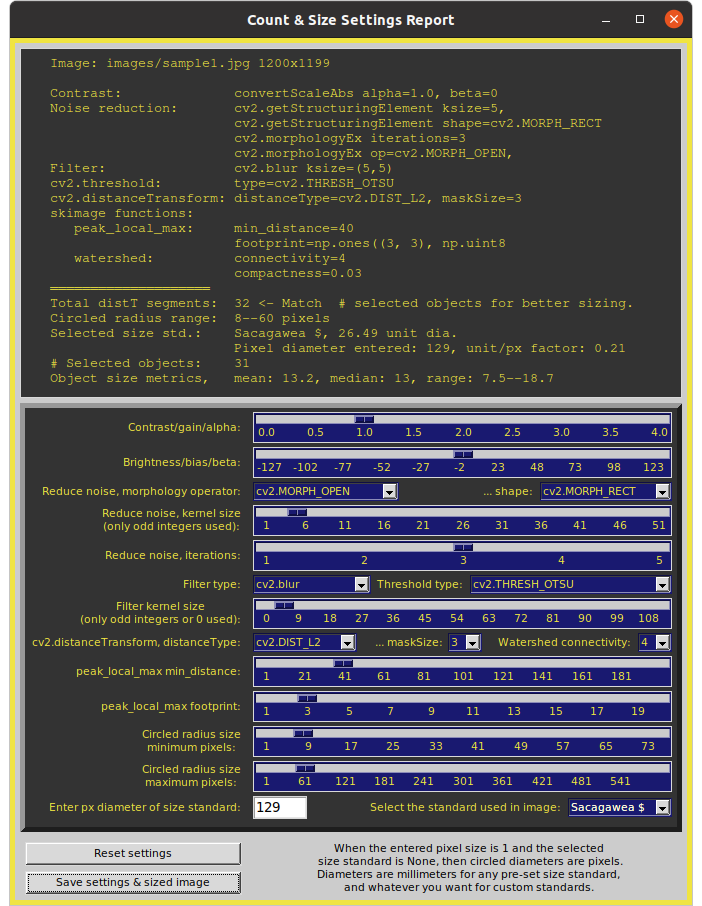
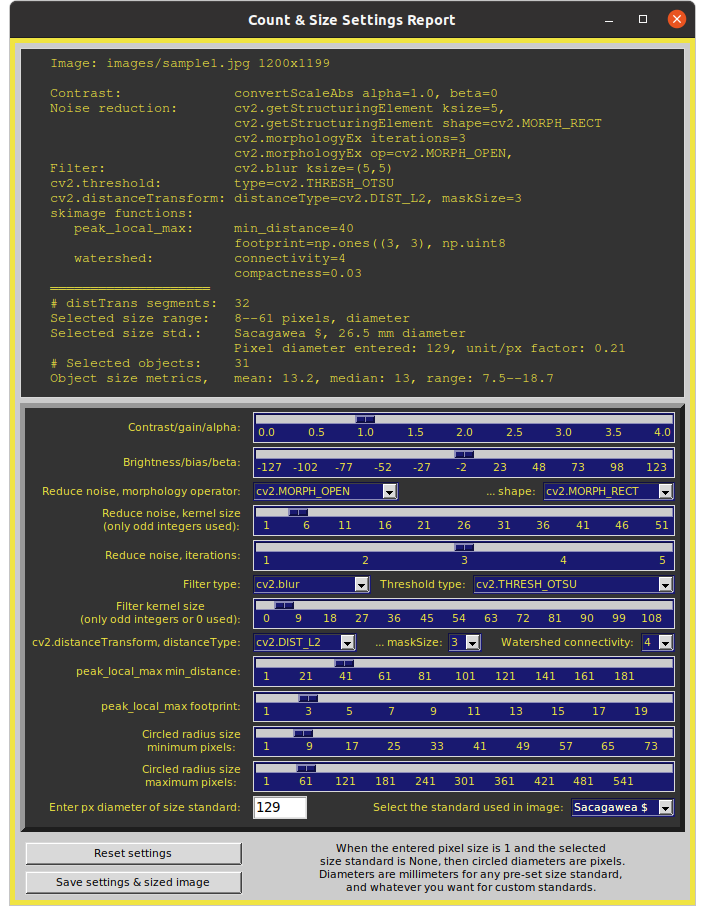
v 0.0.8: clarify report text

diff --git a/size_it.py b/size_it.py
@@ -307,7 +307,7 @@ class ProcessImage(tk.Tk):
             filtered_img = cv2.blur(src=self.reduced_noise_img,
                                     ksize=(filter_k, filter_k),
                                     borderType=border_type)
-        else:
+        else:  # there are no other choices, but include for future.
             filtered_img = cv2.blur(src=self.reduced_noise_img,
                                     ksize=(filter_k, filter_k),
                                     borderType=border_type)
@@ -1014,8 +1014,8 @@ class ImageViewer(ProcessImage):
         #  click and release movement, bind sliders to call the main
         #  processing and reporting function only on left button release.
         # Most are bound to process_all(), but to speed program
-        # responsiveness when changing the size range, just the sizing
-        # method is called.
+        # responsiveness when changing the size range, only call the
+        # sizing method to avoid image processing overhead.
         # Note that the <if '_lbl'> condition doesn't seem to be needed to
         #   improve performance, but is there for clarity's sake.
         for name, widget in self.slider.items():
@@ -1446,8 +1446,13 @@ class ImageViewer(ProcessImage):
 
         if _fk != 0:
             filter_k = _fk + 1 if _fk % 2 == 0 else _fk
-        else:
+        else:  # is zero
             filter_k = _fk
+
+        if self.size_std in 'None, Custom':
+            unit = 'unk unit'
+        else:  # is a pre-set standard with diameter in millimeters.
+            unit = 'mm'
 
         # Text is formatted for clarity in window, terminal, and saved file.
         space = 23
@@ -1472,11 +1477,10 @@ class ImageViewer(ProcessImage):
             f'{"   watershed:".ljust(space)}connectivity={connections}\n'
             f'{tab}compactness=0.03\n'  # NOTE: change if changes in watershed method.
             f'{divider}\n'
-            f'{"Total distT segments:".ljust(space)}{self.num_dt_segments} <- Match'
-            f'  # selected objects for better sizing.\n'
-            f'{"Circled radius range:".ljust(space)}{c_min_r}--{c_max_r} pixels\n'
+            f'{"# distTrans segments:".ljust(space)}{self.num_dt_segments}\n'
+            f'{"Selected size range:".ljust(space)}{c_min_r}--{c_max_r} pixels, diameter\n'
             f'{"Selected size std.:".ljust(space)}{self.size_std},'
-            f' {self.size_std_unit} unit dia.\n'
+            f' {self.size_std_unit} {unit} diameter\n'
             f'{tab}Pixel diameter entered: {self.size_std_px_d.get()},'
             f' unit/px factor: {self.unit_per_px.get()}\n'
             f'{"# Selected objects:".ljust(space)}{num_selected}\n'

diff --git a/utility_modules/constants.py b/utility_modules/constants.py
@@ -270,11 +270,11 @@ SIZE_STANDARDS = {
     'None': 1.0,
     'Custom': 0,
     'Puck': 76.2,
-    'Cent': 19.05,
-    'Nickel': 21.21,
+    'Cent': 19.0,
+    'Nickel': 21.2,
     'Dime': 17.91,
-    'Quarter': 24.26,
-    'Half Dollar': 30.61,
-    'Sacagawea $': 26.49,
+    'Quarter': 24.3,
+    'Half Dollar': 30.6,
+    'Sacagawea $': 26.5,
     'Eisenhower $': 38.1
 }
